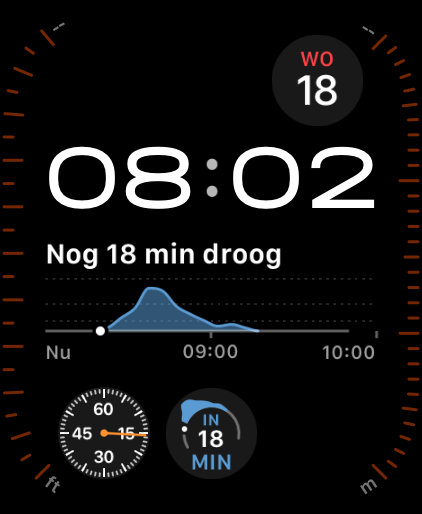
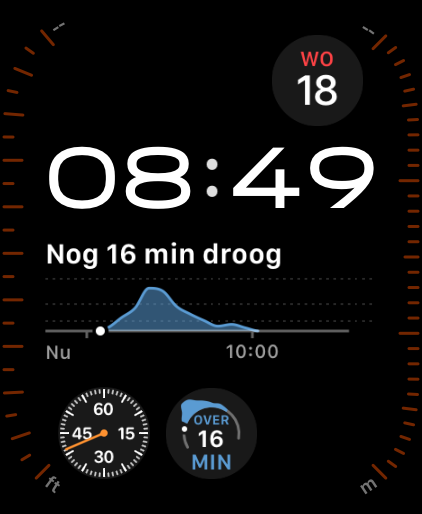
Build 7: Apple Weather's Legal link clear of the Ultra's corner; "OVER" in the Dutch circle
The Legal link now follows the forecast time instead of the trailing edge, where the
Ultra's rounded corner cut it off on every page with Apple's data. The Dutch circle said
"IN 16 MIN"; it now says "OVER 16 MIN" (and still "NOG" while it rains), with a four-letter
lead word drawn smaller so it clears the arc. "KNMI-verwachting van" was tried and wrapped
onto two lines, so the credit stays "KNMI-data van". UI tests pass on the Mac mini.
Build 7 is on TestFlight (Internal takes every build); the two screenshots these changed
are retaken and replaced in the draft listing.

diff --git a/App/Rain/RainApp.swift b/App/Rain/RainApp.swift
@@ -440,11 +440,12 @@ struct Credit: View {
                         Text(RainCopy.clock(issued))
                             .foregroundStyle(.secondary)
                     }
-                    Spacer(minLength: 0)
-                    // Blue means rain, so the link is underlined instead.
+                    // Blue means rain, so the link is underlined instead. It follows the time
+                    // rather than the trailing edge, where the Ultra's rounded corner cuts it off.
                     Text(localized("Legal"))
                         .foregroundStyle(.secondary)
                         .underline()
+                    Spacer(minLength: 0)
                 }
                 .font(.footnote)
                 .frame(minHeight: 32)

diff --git a/Sources/RainGraph/RainViews.swift b/Sources/RainGraph/RainViews.swift
@@ -299,7 +299,8 @@ public struct CircularRainGauge: View {
                 // Three lines at the neighbours' sizes don't fit inside the arc on a 45 point
                 // disc, so the lead word is smaller; the number and the unit match theirs.
                 if let lead {
-                    word(lead, side: side, size: 0.18)
+                    // Four letters at that size touch the arc; the Dutch "OVER" has four.
+                    word(lead, side: side, size: lead.count > 3 ? 0.15 : 0.18)
                         .position(x: mid, y: mid - side * 0.15)
                 }
                 // Three characters at the two-character size would touch the arc.

diff --git a/store/screenshots/make.py b/store/screenshots/make.py
@@ -22,7 +22,7 @@ CASE_TOP = 163                        # first row of the case in the frame; the 
 SHOTS = {
     'en-GB': [
         ('face-coming', 'Get there dry?', 'Glance at your wrist.', None),
-        ('app-london', 'In the UK?', 'See the hour ahead.', 'From Apple Weather; hourly where it has no next hour'),
+        ('app-uk', 'In the UK?', 'See the hour ahead.', 'From Apple Weather; hourly where it has no next hour'),
         ('app-raining', 'Caught in a shower?', 'See when it stops.', 'Benelux and western Germany: up to two hours ahead'),
         ('app-radar', 'Watch the shower', 'come in.', 'Radar map in the Benelux and western Germany'),
         ('app-later', 'Free, with no ads.', 'No account needed.', None),

diff --git a/LAUNCH.md b/LAUNCH.md
@@ -46,7 +46,7 @@ Who does it: Claude (or another agent), unless it says Josh. "Josh" means only w
 | 13 | iPhone wrapper, the only form App Store Connect accepts | Claude | Done; signs, and is accepted for App Store export |
 | 14 | Dutch translation of every word in the app and of the location prompt | Claude writes, Josh reads | Done 18 Nov: `Sources/RainGraph/Localizable.xcstrings` and `App/Shared/InfoPlist.xcstrings`, checked on the simulator in Dutch in every state. `store/dutch.md` lists every string for Josh to read |
 | 15 | Privacy policy and support page on Josh's website, linked from the app (Guideline 5.1.1(i)) | Claude writes; Josh approves the text before it is published | Drafted 18 Nov in `~/code/website/sites/jjpcodes-home/drafts/rainwatch/`, in English and Dutch, not published. Waits for Josh to approve the text and give the support email address. The listing already points at `https://jjpcodes.com/rainwatch/privacy` and `/support`. The app links the privacy page from its About page (from build 4) |
-| 16 | Version 1.0.0, build 1 | Claude | Done: 1.0.0, build 5, uploaded 18 Nov with `App/upload.sh`: build 3 with the fixes from Sol's review |
+| 16 | Version 1.0.0, build 1 | Claude | Done: 1.0.0, build 7, uploaded 18 Nov with `App/upload.sh`: Apple Weather's Legal link clear of the Ultra's corner, and the Dutch circle reads "OVER 16 MIN". Build 6 had the Dutch word touching the arc |
 | 17 | Real-watch pass: every forecast state, Always On, Night Mode, VoiceOver, larger text, offline, and a day's refresh log | Claude, with Josh wearing it | To do |
 | 18 | Josh moves his complication from the old Rain app to BuienWatch; then the old app is removed | Josh, then Claude | BuienWatch is installed next to Rain |
 | 19a | Record Buienradar's forecasts at the 64 Dutch grid points for a month, to compare them with KNMI's over many rainy days: Buienradar keeps no archive, so it could only be scored on the one day its forecasts were saved (13 November) | Claude | Recording since 14 Nov 18:46 on mini-server-1, every 15 minutes (`/var/lib/buienradar-recorder`) |
@@ -57,7 +57,7 @@ Who does it: Claude (or another agent), unless it says Josh. "Josh" means only w
 | # | Task | Who | Status |
 |---|---|---|---|
 | 20 | Subtitle, keywords, promotional text and description, in English and Dutch, by the rules in Josh's saved App Store posts (Paul Solt, designerants) and Apple's: no other app's name, no "real-time", "accurate", "best" or "minute by minute", every promise of two hours or radar tied to KNMI's area, no keyword repeated in the name, subtitle or other language | Claude; Josh reads before it goes live | Rewritten 18 Nov in `store/metadata/` and set on the draft with `asc localizations update`, read back unchanged. English subtitle "Next rain on your watch face", Dutch "Buien en regen op je pols". The English description avoids the app's name, which may still change. Nothing is live until the app is submitted |
-| 21 | Five screenshots at 422 × 514 per language: a two-line headline of eight words or fewer, the real app in Apple's Ultra 3 frame, the face first and then four app screens (Guideline 2.3.3), no app name in the artwork | Claude | Done 18 Nov from build 5's code at 08:00: `design/capture-store.sh` (on the Mac mini) replays a real KNMI run saved that night and takes the live Apple Weather forecast for London; `store/screenshots/make.py` frames them. Uploaded to the draft, all processed. Two fresh reviews; their app findings are open: the Dutch circle says "IN" for "over", Apple Weather's "Legal" sits in the screen's corner |
+| 21 | Five screenshots at 422 × 514 per language: a two-line headline of eight words or fewer, the real app in Apple's Ultra 3 frame, the face first and then four app screens (Guideline 2.3.3), no app name in the artwork | Claude | Done 18 Nov from build 5's code at 08:00: `design/capture-store.sh` (on the Mac mini) replays a real KNMI run saved that night and takes the live Apple Weather forecast for London; `store/screenshots/make.py` frames them. Uploaded to the draft, all processed. Two fresh reviews. Build 7 fixed the two app faults they found, and the two screenshots that showed them (English 2, now live Apple Weather for Birmingham, and Dutch 1) were retaken and replaced |
 | 22 | App Privacy answers: coarse location, for app functionality, not linked to the person, no tracking | Claude | Applied 14 Nov from `store/privacy.json`, not yet published; recheck once the server design is settled |
 | 23 | Category (Weather), age rating, copyright | Claude | Done 18 Nov: Weather, every age-rating answer "none", copyright "2026 Josh Palmer", manual release |
 | 23a | Custom licence agreement: Apple's standard one, word for word, with WeatherKit's notice added (Agreement, Attachment 8, 1.2 and 2.2) | Claude | Done 18 Nov with `asc eula create`, for all 175 territories; the text is `store/eula.txt`. A territory Apple adds later gets the standard one until the agreement is updated |
@@ -67,7 +67,7 @@ Who does it: Claude (or another agent), unless it says Josh. "Josh" means only w
 
 | # | Task | Who | Status |
 |---|---|---|---|
-| 25 | Upload builds; internal TestFlight on Josh's watch | Claude | Build 1.0.0 (5) uploaded 18 Nov from the command line (`App/upload.sh`); the internal group "Internal" takes every build. Josh installs it from TestFlight on his iPhone |
+| 25 | Upload builds; internal TestFlight on Josh's watch | Claude | Build 1.0.0 (7) uploaded 18 Nov from the command line (`App/upload.sh`); the internal group "Internal" takes every build. Josh installs it from TestFlight on his iPhone |
 | 26 | External TestFlight: 5 to 10 Dutch testers for two weeks | Josh picks the testers and approves the invitation; Claude runs it | After 25 |
 | 27 | Nominate for featuring when external testing starts, three weeks or more before release | Claude | With 26 |
 | 28 | Submit for review. Allow two weeks. After a rejection over the listing, resubmit the same build | Claude | After 26 |

diff --git a/store/dutch.md b/store/dutch.md
@@ -22,7 +22,7 @@ Choices worth a look:
 | No | Geen | Circle without a forecast, first line: No PLACE, No DATA |
 | DATA | DATA | Circle without a forecast, second line |
 | PLACE | PLEK | Circle without a place, second line |
-| IN | IN | Circle, above the number, dry now: rain IN 39 MIN |
+| IN | OVER | Circle, above the number, dry now: rain IN 39 MIN |
 | FOR | NOG | Circle, above the number, raining now: rain FOR 14 MIN more |
 | MIN | MIN | Circle, under the number |
 | HR | UUR | Circle, under the number, hourly forecast: <1 HR |
